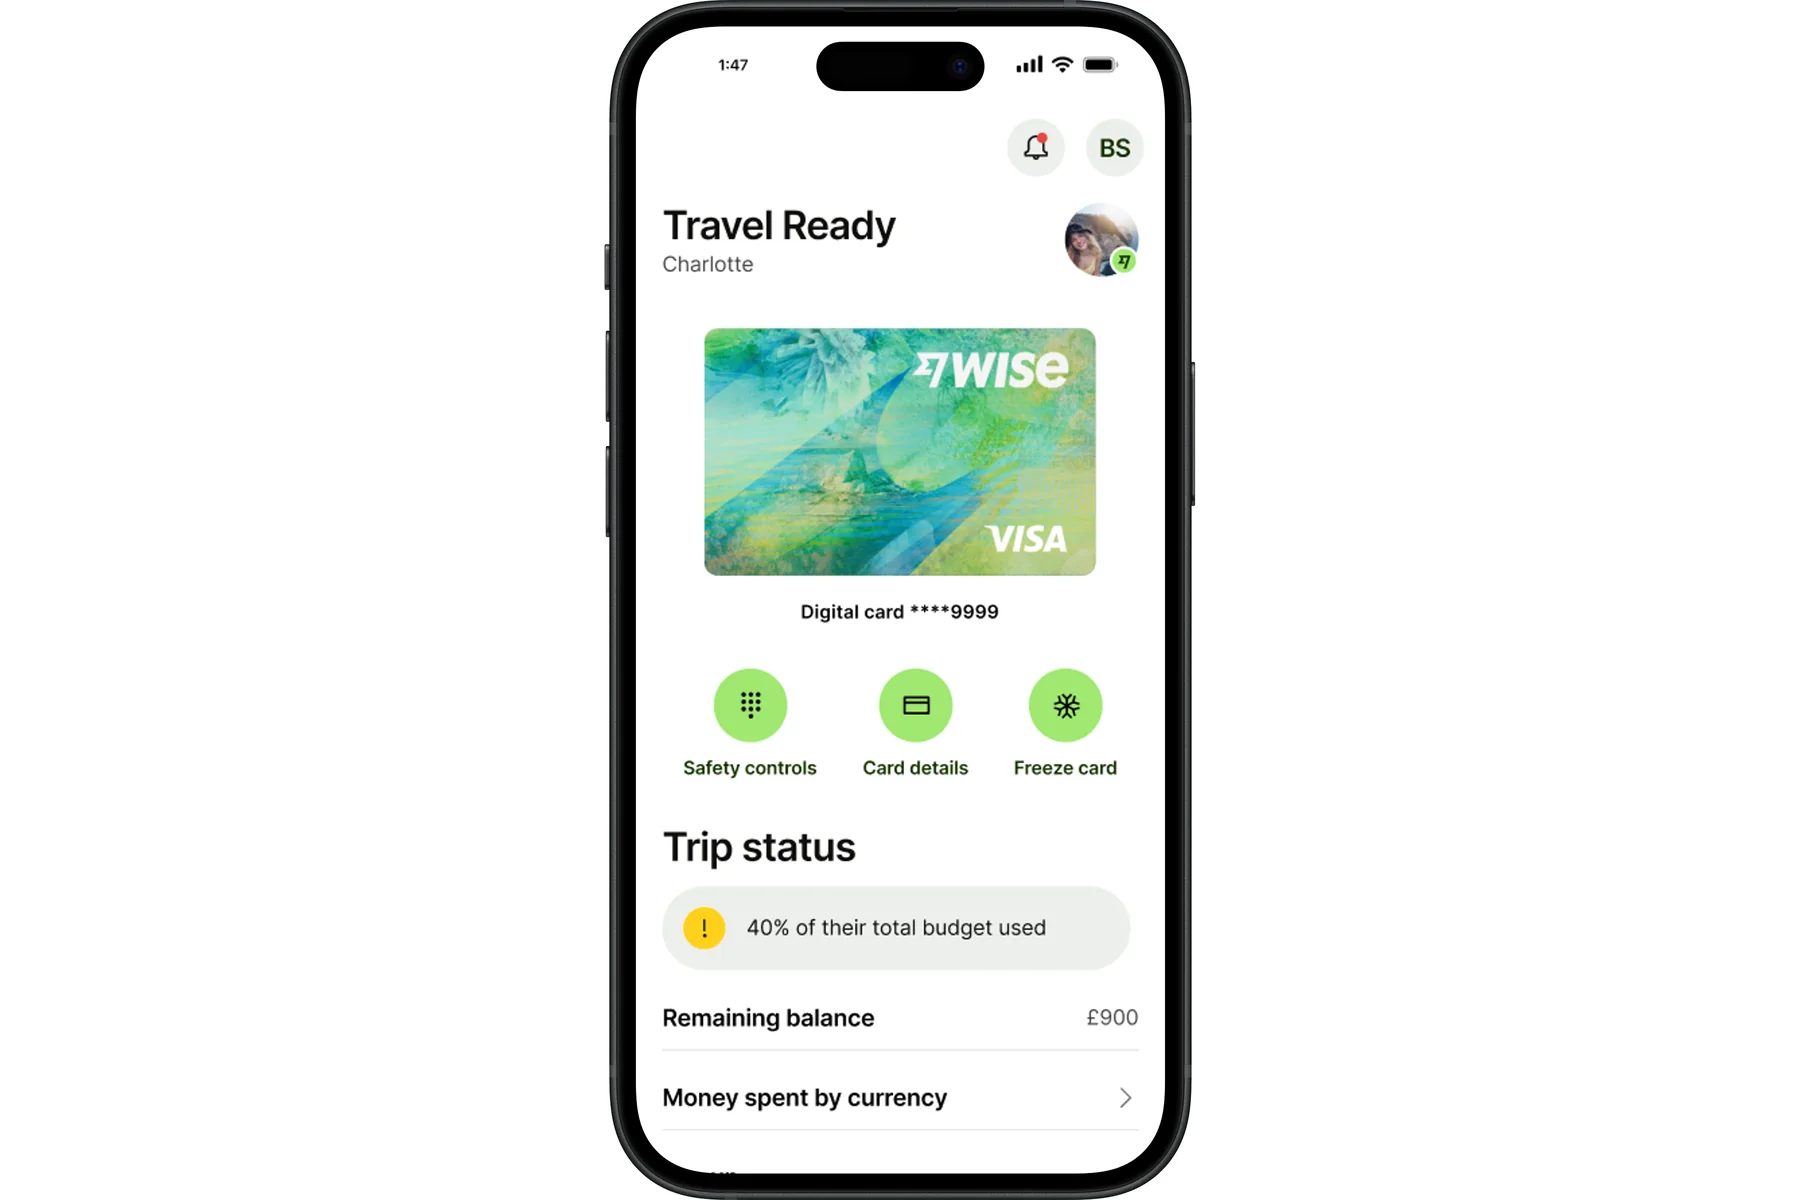
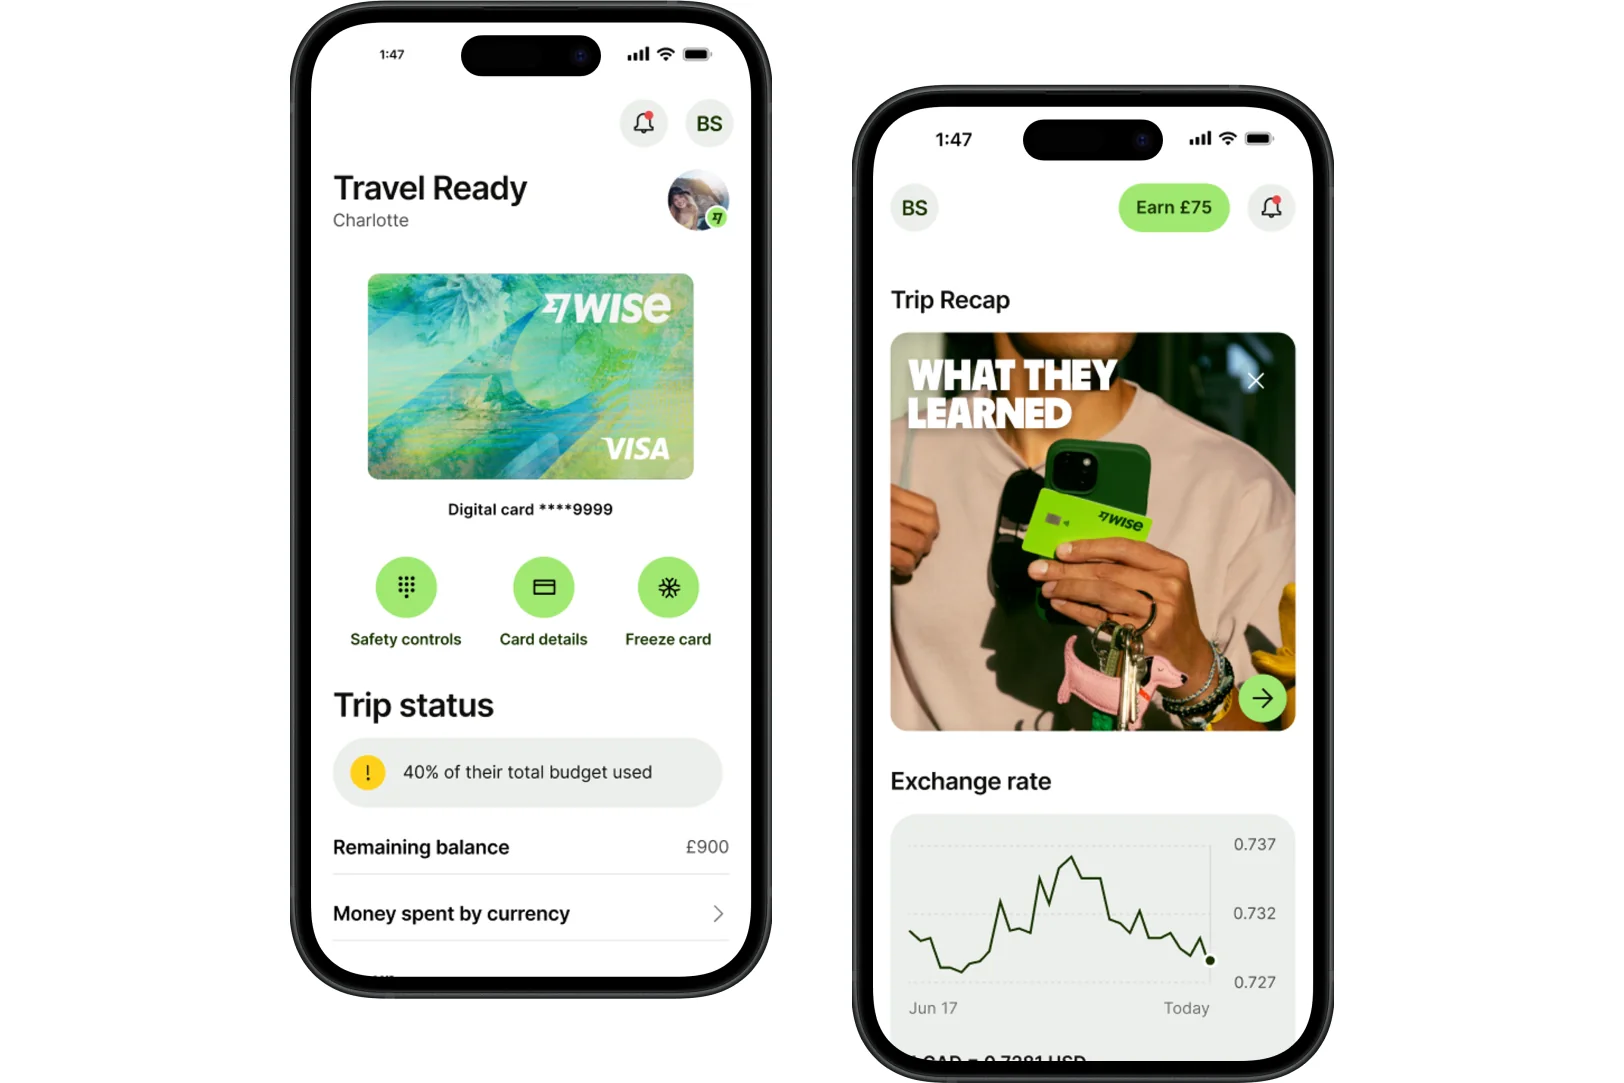
Reorder projects and galleries, and replace the Wise cover
Selected Work now runs What Caused This, Wise, ClearTerms. Slot one is the
only panel centred on load, so it carries the most weight: What Caused This
is the only project pairing a real client engagement with usability testing
and a stated business brief, and it opens on the strongest line in the
portfolio. ClearTerms moves last, where its cover — a wall of small legal
text, the least legible of the three at panel size — costs least, and where
its written depth still rewards anyone who opens it.

Wise takes a new cover: two phones filling the frame at 3:2. The previous
one was a single portrait phone, which cannot fill a 3:2 box, so it read as
mostly empty space beside two laptop shots.

The screen that used to be the Wise cover rejoins the During gallery, at the
front. It is the Travel Ready card in its active state and the next panel is
the same screen frozen, so the pair now reads as the freeze interaction
rather than as two near-identical screens.

Gallery ordering, from a review of each sheet:

- What Caused This: "Getting in" moves from inside the Context prose to the
  end of it. A gallery mid-section splits the text in two, and the section
  closes on trial-to-paying conversion, which is what those screens show.
- ClearTerms: "Building the hierarchy" leads with the finished panel;
  "Identity" closes on the final logo rather than the favicon sheet.
- Wise: "During" leads with the card view.
[…]

Changed region(s): [[0.1539, 0.0, 0.8313, 1.0], [0.7081, 0.9141, 0.7389, 0.9446]]

diff --git a/lib/portfolio-data.ts b/lib/portfolio-data.ts
@@ -132,7 +132,10 @@ export const projects: Project[] = [
     sectionLengths: [4, 1, 2, 2, 1, 1],
     media: [
       // The self-serve trial that replaced emailing the team for access.
-      { id: "getting-in", title: "Getting in", afterParagraph: 1, items: [
+      // Anchored to the end of Context rather than inside it: a gallery placed
+      // mid-section splits the prose in two, and the section closes on trial-
+      // to-paying conversion, which is exactly what these screens show.
+      { id: "getting-in", title: "Getting in", afterParagraph: 3, items: [
         img("what-caused-this", "getting-in-01", "Email verifying the account and starting the 14-day free trial"),
         img("what-caused-this", "getting-in-02", "Upgrade plan with order summary and payment details"),
         img("what-caused-this", "getting-in-03", "Purchase confirmed, returning to the dashboard"),
@@ -155,73 +158,6 @@ export const projects: Project[] = [
       { title: "Context", description: "A root cause analysis tool for managers and project leads chasing recurring problems." },
       { title: "Research", description: "Five out of five new users failed to complete the primary task without help." },
       { title: "Approach", description: "Guidance at the point of action, focused on creating a first analysis report." },
-    ],
-  },
-  {
-    slug: "clearterms",
-    title: "ClearTerms",
-    category: "Turning terms and conditions into summaries people actually read.",
-    cover: "/images/projects/clearterms/cover.webp",
-    date: "The biggest lie on the internet is \"I have read and agree to the terms and conditions.\" ClearTerms uses AI-driven summaries to make that statement true.",
-    body: [
-      "A man lost his right to sue over food poisoning because of a clause buried in the signup for a free service. He had agreed to it. Almost nobody reads these documents, and the people who write them know it.",
-      "Our survey found 83% of people accept terms without reading them, and 97% would rather see a plain summary first. ClearTerms was built for both sides of that gap, consumers who need clarity and businesses that want to reduce legal risk.",
-      "Our proof of concept flagged a clause granting TikTok rights to a user's image and voice. Not something anyone catches reading on their own.",
-      "I was one of two designers on a team of six at Sync the City, a 54 hour build event. We worked the design together from research through to final screens, alongside development and business strategy. Decisions on revenue model, disclaimers and product format fed straight into design choices, so the design moved with the business case rather than after it. Legal input came from external mentor review through the Akcela incubator.",
-      "Surveys and interviews showed people weren't ignoring terms out of laziness. They were beaten by the structure and the language. That moved the problem from reducing content to ranking it, so someone could spot a risky clause without reading the whole document.",
-      "The challenge was hierarchy. Legal documents are dense and flat, so the interface had to separate the clauses that matter from the routine ones at a glance.",
-      "Three patterns came out of that.",
-      "Plain language summaries, replacing dense legal text with scannable insights. Clause highlighting, flagging terms that are risky or unclear. Categorisation, grouping clauses by theme such as data use, liability and intellectual property, so someone can navigate without reading everything.",
-      "Scope. Competitor tools mostly cover narrow areas like cookie policies. We chose to cover the whole document, which gave ClearTerms a clearer position and made the design problem harder.",
-      "Format. A website would have been easier to build and test, but people meet terms in context, at the moment they sign up. ToS;DR, the closest competitor, pulls users out to its own site and breaks that moment. A Chrome extension puts the tool where the decision happens, and leaves room to grow into a platform later.",
-      "Model. Freemium. The consumer tool stays free to build trust and drive organic growth, with revenue on the business side, which the extension format suits.",
-      "Liability. The hardest problem wasn't the interface. It was using AI to interpret binding documents. A legal reviewer flagged that my summary UI was too definitive, which could create liability of its own. So key areas became cited and highlightable, letting a user check the source text rather than trust the summary.",
-      "The interface was the easy part. Trust wasn't. Clarity on screen only gets you so far. The rest came from putting disclaimers inside the reading flow rather than hiding them in small print, and being honest about what an AI summary can't guarantee.",
-    ],
-    sectionTitles: ["Context", "Research", "Approach", "Decisions", "Reflection"],
-    sectionLengths: [4, 1, 3, 4, 1],
-    leadIns: ["Scope.", "Format.", "Model.", "Liability."],
-    media: [
-      // Interview reel plus the survey charts behind the 83% / 97% figures.
-      // videoControls is what surfaces the lightbox mute button; the panel
-      // itself stays muted whatever we pass.
-      // The interviews play in Vimeo's own player. The reel is 31 seconds at a
-      // ~28 Mbps bitrate, far too heavy to self-host, and its audio carries the
-      // findings — so a player the viewer starts beats a muted ambient loop.
-      { id: "interviews", title: "User interviews", afterParagraph: 4, items: [],
-        embed: {
-          src: "https://player.vimeo.com/video/1044294752?title=0&byline=0&portrait=0&badge=0&autopause=0&player_id=0&app_id=58479",
-          title: "ClearTerms User Interviews",
-        } },
-      { id: "research", title: "Survey results", afterParagraph: 4, items: [
-        img("clearterms", "research-01", "Survey results: 97% would prefer a summary of the key points"),
-      ] },
-      // Wireframes running lo-fi modules -> in-context -> branded panel.
-      { id: "hierarchy", title: "Building the hierarchy", afterParagraph: 7, items: [
-        img("clearterms", "hierarchy-01", "Low-fidelity wireframes of the concern, preferences and summary modules"),
-        img("clearterms", "hierarchy-02", "Mid-fidelity extension panel shown beside a live terms page"),
-        img("clearterms", "hierarchy-03", "The panel at full fidelity in ClearTerms branding"),
-      ] },
-      // Sits on "Format." — the flow showing the extension firing in place.
-      // Kept whole: splitting it into stages made each panel taller but the
-      // flow itself harder to follow, and the last stage was no clearer.
-      { id: "where-it-lives", title: "Where the tool lives", afterParagraph: 9, items: [
-        img("clearterms", "where-it-lives-01", "User flow from installing the extension to reading a generated summary"),
-      ] },
-      // Identity work. Anchored to the last paragraph so it closes the case
-      // study rather than interrupting an argument it does not serve.
-      { id: "identity", title: "Identity", afterParagraph: 12, items: [
-        img("clearterms", "identity-01", "Colour palette exploration"),
-        img("clearterms", "identity-02", "Logotype explorations"),
-        img("clearterms", "identity-03", "Logo lockups on light and dark backgrounds"),
-        img("clearterms", "identity-04", "The final ClearTerms logo"),
-        img("clearterms", "identity-05", "Favicon and full logo lockup"),
-      ] },
-    ],
-    items: [
-      { title: "Context", description: "Built in 54 hours at Sync the City with a team of six." },
-      { title: "Research", description: "83% accept terms without reading them; 97% would rather see a plain summary first." },
-      { title: "Safeguard", description: "Cited and highlightable clauses let users check source text themselves." },
     ],
   },
   {
@@ -271,10 +207,14 @@ export const projects: Project[] = [
         img("wise-young-explorer", "before-09", "Editing the suggested budget"),
         img("wise-young-explorer", "before-10", "Ready-to-go checklist before activating Travel Ready"),
       ] },
+      // Opens on the card as it sits during the trip, then the same screen with
+      // the card frozen — the pair reads as the interaction rather than as two
+      // near-identical screens. The first of these was the old cover.
       { id: "during", title: "During — while they are away", afterParagraph: 5, items: [
-        img("wise-young-explorer", "during-01", "Trip status with spend by currency and recent transactions"),
-        img("wise-young-explorer", "during-02", "Travel Ready card view with the card frozen"),
-        img("wise-young-explorer", "during-03", "Safety controls for payments, alerts and ATM withdrawals"),
+        img("wise-young-explorer", "during-01", "The Travel Ready card during the trip"),
+        img("wise-young-explorer", "during-02", "The same card, frozen"),
+        img("wise-young-explorer", "during-03", "Trip status with spend by currency and recent transactions"),
+        img("wise-young-explorer", "during-04", "Safety controls for payments, alerts and ATM withdrawals"),
       ] },
       { id: "after", title: "After — the recap", afterParagraph: 7, items: [
         img("wise-young-explorer", "after-01", "Trip recap with the exchange rate across the trip"),
@@ -290,6 +230,73 @@ export const projects: Project[] = [
       { title: "Context", description: "A live Wise brief to get more parents setting up Young Explorer for 15 to 17 year olds." },
       { title: "Insight", description: "The first trip abroad is where parental reassurance and teenage independence meet." },
       { title: "Solution", description: "Travel Ready: a guided setup built into the Young Explorer card area." },
+    ],
+  },
+  {
+    slug: "clearterms",
+    title: "ClearTerms",
+    category: "Turning terms and conditions into summaries people actually read.",
+    cover: "/images/projects/clearterms/cover.webp",
+    date: "The biggest lie on the internet is \"I have read and agree to the terms and conditions.\" ClearTerms uses AI-driven summaries to make that statement true.",
+    body: [
+      "A man lost his right to sue over food poisoning because of a clause buried in the signup for a free service. He had agreed to it. Almost nobody reads these documents, and the people who write them know it.",
+      "Our survey found 83% of people accept terms without reading them, and 97% would rather see a plain summary first. ClearTerms was built for both sides of that gap, consumers who need clarity and businesses that want to reduce legal risk.",
+      "Our proof of concept flagged a clause granting TikTok rights to a user's image and voice. Not something anyone catches reading on their own.",
+      "I was one of two designers on a team of six at Sync the City, a 54 hour build event. We worked the design together from research through to final screens, alongside development and business strategy. Decisions on revenue model, disclaimers and product format fed straight into design choices, so the design moved with the business case rather than after it. Legal input came from external mentor review through the Akcela incubator.",
+      "Surveys and interviews showed people weren't ignoring terms out of laziness. They were beaten by the structure and the language. That moved the problem from reducing content to ranking it, so someone could spot a risky clause without reading the whole document.",
+      "The challenge was hierarchy. Legal documents are dense and flat, so the interface had to separate the clauses that matter from the routine ones at a glance.",
+      "Three patterns came out of that.",
+      "Plain language summaries, replacing dense legal text with scannable insights. Clause highlighting, flagging terms that are risky or unclear. Categorisation, grouping clauses by theme such as data use, liability and intellectual property, so someone can navigate without reading everything.",
+      "Scope. Competitor tools mostly cover narrow areas like cookie policies. We chose to cover the whole document, which gave ClearTerms a clearer position and made the design problem harder.",
+      "Format. A website would have been easier to build and test, but people meet terms in context, at the moment they sign up. ToS;DR, the closest competitor, pulls users out to its own site and breaks that moment. A Chrome extension puts the tool where the decision happens, and leaves room to grow into a platform later.",
+      "Model. Freemium. The consumer tool stays free to build trust and drive organic growth, with revenue on the business side, which the extension format suits.",
+      "Liability. The hardest problem wasn't the interface. It was using AI to interpret binding documents. A legal reviewer flagged that my summary UI was too definitive, which could create liability of its own. So key areas became cited and highlightable, letting a user check the source text rather than trust the summary.",
+      "The interface was the easy part. Trust wasn't. Clarity on screen only gets you so far. The rest came from putting disclaimers inside the reading flow rather than hiding them in small print, and being honest about what an AI summary can't guarantee.",
+    ],
+    sectionTitles: ["Context", "Research", "Approach", "Decisions", "Reflection"],
+    sectionLengths: [4, 1, 3, 4, 1],
+    leadIns: ["Scope.", "Format.", "Model.", "Liability."],
+    media: [
+      // Interview reel plus the survey charts behind the 83% / 97% figures.
+      // videoControls is what surfaces the lightbox mute button; the panel
+      // itself stays muted whatever we pass.
+      // The interviews play in Vimeo's own player. The reel is 31 seconds at a
+      // ~28 Mbps bitrate, far too heavy to self-host, and its audio carries the
+      // findings — so a player the viewer starts beats a muted ambient loop.
+      { id: "interviews", title: "User interviews", afterParagraph: 4, items: [],
+        embed: {
+          src: "https://player.vimeo.com/video/1044294752?title=0&byline=0&portrait=0&badge=0&autopause=0&player_id=0&app_id=58479",
+          title: "ClearTerms User Interviews",
+        } },
+      { id: "research", title: "Survey results", afterParagraph: 4, items: [
+        img("clearterms", "research-01", "Survey results: 97% would prefer a summary of the key points"),
+      ] },
+      // Wireframes running lo-fi modules -> in-context -> branded panel.
+      { id: "hierarchy", title: "Building the hierarchy", afterParagraph: 7, items: [
+        img("clearterms", "hierarchy-03", "The panel at full fidelity in ClearTerms branding"),
+        img("clearterms", "hierarchy-01", "Low-fidelity wireframes of the concern, preferences and summary modules"),
+        img("clearterms", "hierarchy-02", "Mid-fidelity extension panel shown beside a live terms page"),
+      ] },
+      // Sits on "Format." — the flow showing the extension firing in place.
+      // Kept whole: splitting it into stages made each panel taller but the
+      // flow itself harder to follow, and the last stage was no clearer.
+      { id: "where-it-lives", title: "Where the tool lives", afterParagraph: 9, items: [
+        img("clearterms", "where-it-lives-01", "User flow from installing the extension to reading a generated summary"),
+      ] },
+      // Identity work. Anchored to the last paragraph so it closes the case
+      // study rather than interrupting an argument it does not serve.
+      { id: "identity", title: "Identity", afterParagraph: 12, items: [
+        img("clearterms", "identity-01", "Colour palette exploration"),
+        img("clearterms", "identity-02", "Logotype explorations"),
+        img("clearterms", "identity-03", "Logo lockups on light and dark backgrounds"),
+        img("clearterms", "identity-05", "Favicon and full logo lockup"),
+        img("clearterms", "identity-04", "The final ClearTerms logo"),
+      ] },
+    ],
+    items: [
+      { title: "Context", description: "Built in 54 hours at Sync the City with a team of six." },
+      { title: "Research", description: "83% accept terms without reading them; 97% would rather see a plain summary first." },
+      { title: "Safeguard", description: "Cited and highlightable clauses let users check source text themselves." },
     ],
   },
 ]
